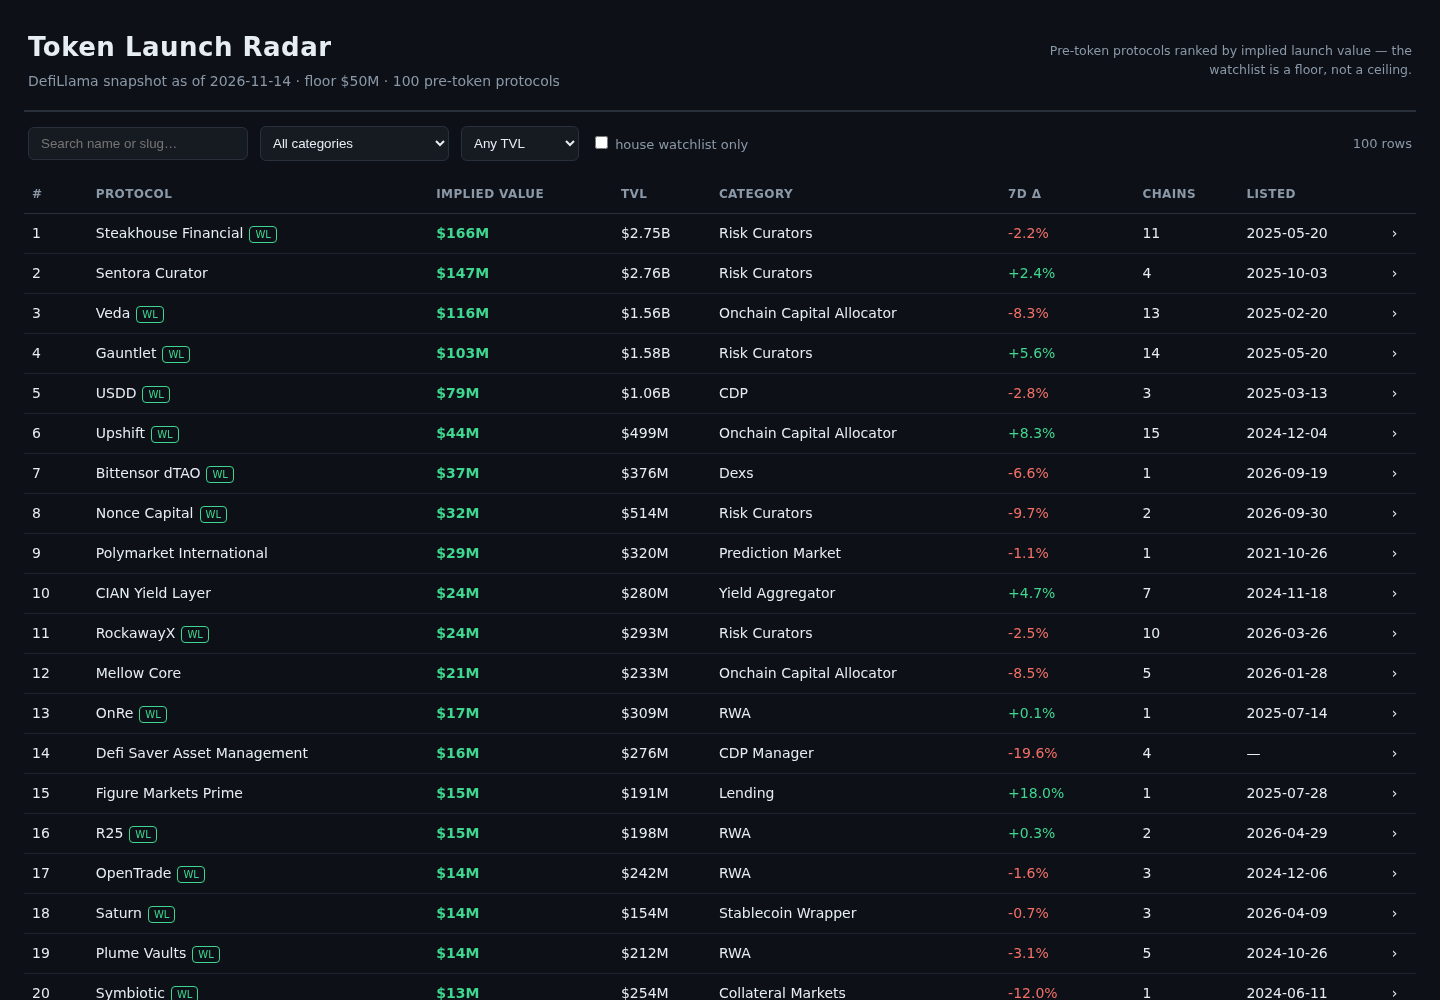
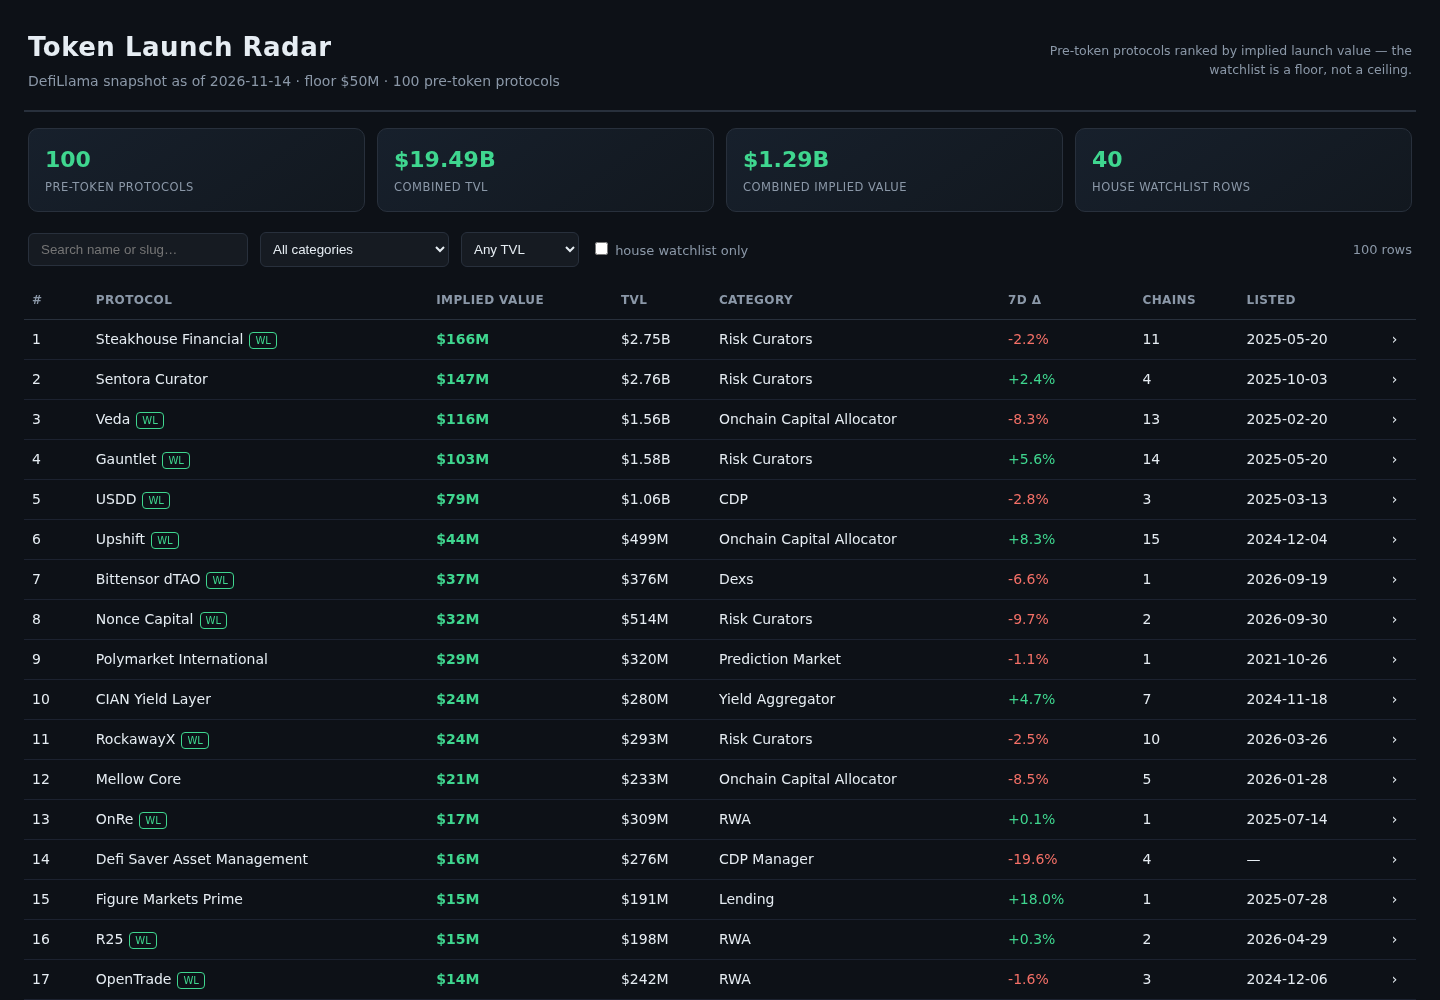
Dashboard: hero stats strip (protocols/TVL/implied/watchlist)

diff --git a/dashboard/app.css b/dashboard/app.css
@@ -5,6 +5,10 @@ header{display:flex;justify-content:space-between;align-items:end;gap:24px;paddi
 h1{margin:0;font-size:26px;letter-spacing:.5px}
 .sub{color:var(--mut);margin:4px 0 0}
 .tag{color:var(--mut);max-width:420px;text-align:right;font-size:12.5px}
+#hero{display:grid;grid-template-columns:repeat(4,1fr);gap:12px;padding:16px 4px 6px}
+#hero div{background:linear-gradient(145deg,#17202c,#12181f);border:1px solid var(--line);border-radius:10px;padding:14px 16px}
+#hero b{display:block;font-size:22px;color:var(--ac)}
+#hero span{color:var(--mut);font-size:11.5px;text-transform:uppercase;letter-spacing:.5px}
 #controls{display:flex;gap:12px;align-items:center;padding:14px 4px;flex-wrap:wrap}
 #controls input[type=search]{background:var(--panel);border:1px solid var(--line);color:var(--ink);padding:8px 12px;border-radius:6px;width:220px}
 #controls select{background:var(--panel);border:1px solid var(--line);color:var(--ink);padding:8px;border-radius:6px}

diff --git a/dashboard/app.js b/dashboard/app.js
@@ -6,6 +6,12 @@ let sortK='r',sortDir=1;
 
 $('#asof').textContent=`DefiLlama snapshot as of ${DATA.asof} · floor ${usd(DATA.floor)} · ${rows.length} pre-token protocols`;
 
+const totT=rows.reduce((s,r)=>s+r.t,0),totV=rows.reduce((s,r)=>s+r.v,0),wlN=rows.filter(r=>r.w).length;
+$('#hero').innerHTML=[
+ ['pre-token protocols',rows.length],['combined TVL',usd(totT)],
+ ['combined implied value',usd(totV)],['house watchlist rows',wlN],
+].map(([k,v])=>`<div><b>${v}</b><span>${k}</span></div>`).join('');
+
 const cats=[...new Set(rows.map(r=>r.c).filter(Boolean))].sort();
 for(const c of cats){const o=document.createElement('option');o.value=o.textContent=c;$('#fcat').append(o);}
 

diff --git a/dashboard/index.html b/dashboard/index.html
@@ -15,6 +15,8 @@
   <p class="tag">Pre-token protocols ranked by implied launch value — the watchlist is a floor, not a ceiling.</p>
 </header>
 
+<section id="hero"></section>
+
 <section id="controls">
   <input id="q" type="search" placeholder="Search name or slug…">
   <select id="fcat"><option value="">All categories</option></select>
